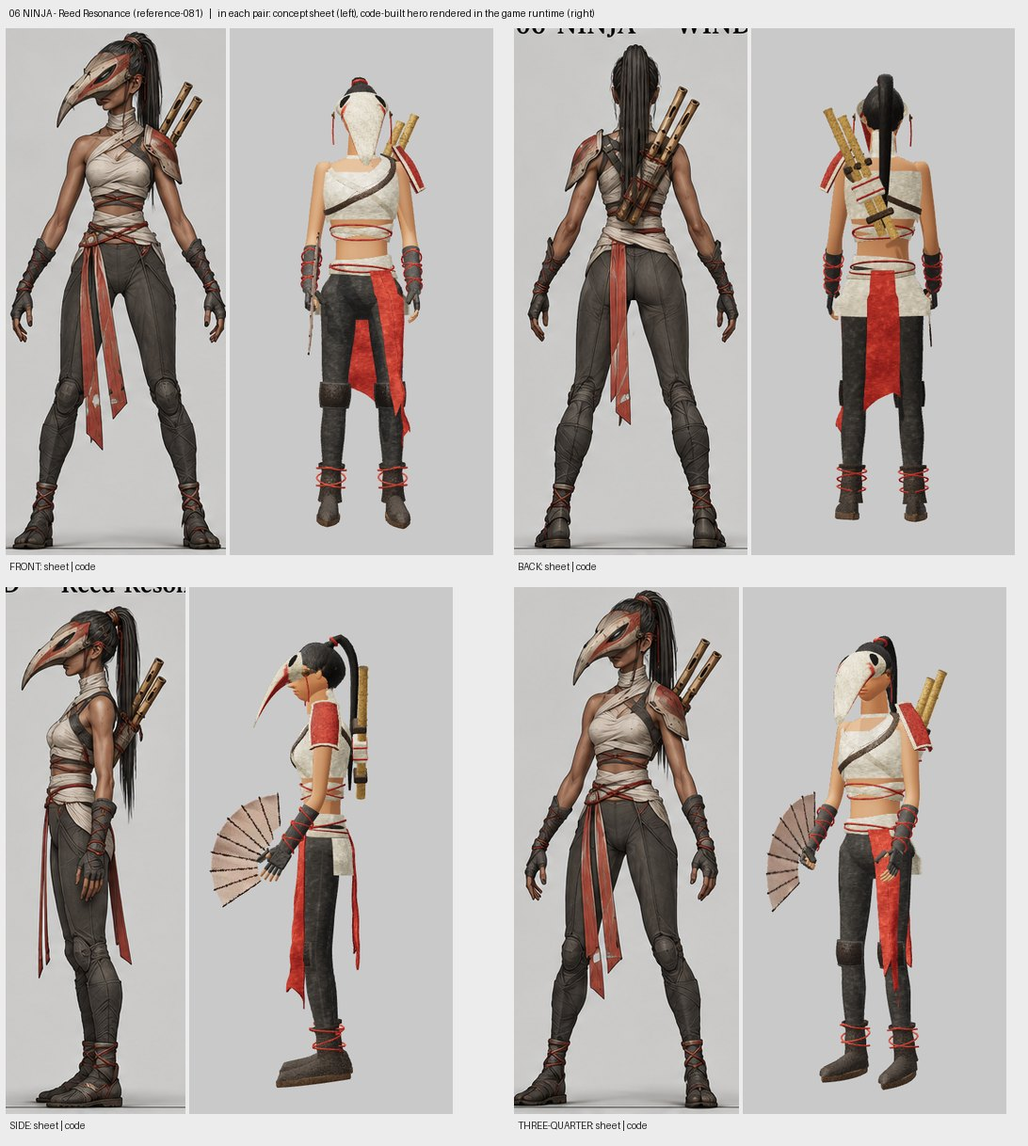
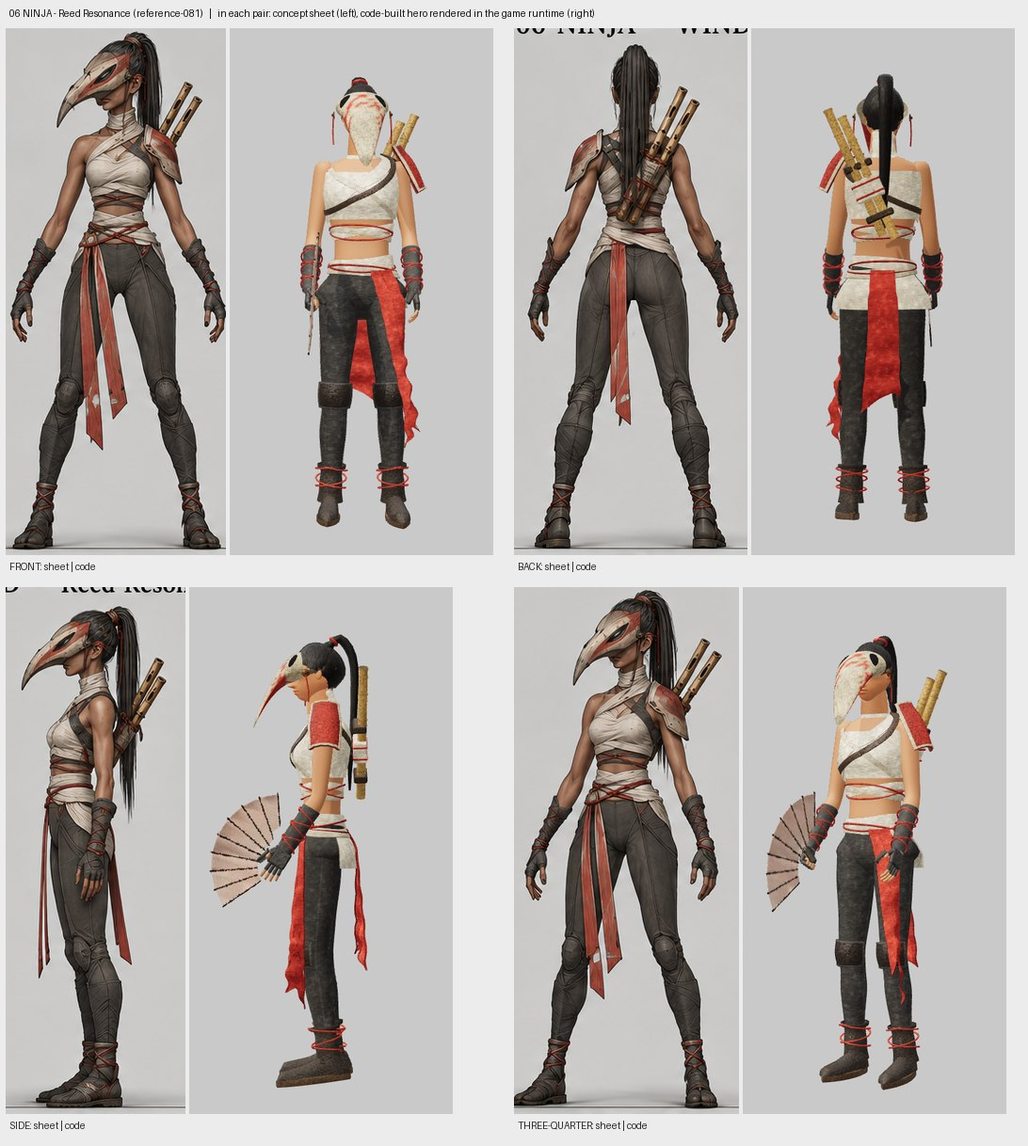
Oath 06-10 heroes: second fidelity pass against their sheets, updated side-by-sides and honest per-hero status
Fuller builds, painted beak mask, darker moss and oilskin, flared enamel tassets, calmer meteor iron,
slimmer astrolabe enamel, larger hem weights; tassets hang clear of baggy trousers.

Claude-Session: https://claude.ai/code/session_01SYnDkjpH2GusYDnF3Uckgg

diff --git a/game/src/three/character/sheets/recipes/oath-09-ninja.js b/game/src/three/character/sheets/recipes/oath-09-ninja.js
@@ -6,7 +6,7 @@ import { B } from '../builders-b.js';
 export default {
   id: 'oath-09-ninja', sheet: 'reference-075', title: 'Daybreak Ninja',
   palette: {
-    grey: '#6f6d6c', greyDark: '#545252', cloth: '#6f6d6c', ivory: '#d9d0bc', ivoryShade: '#b9b09c', gold: '#b08a3e', leather: '#4a4644', leatherDark: '#343231',
+    grey: '#565554', greyDark: '#454444', cloth: '#565554', ivory: '#d9d0bc', ivoryShade: '#b9b09c', gold: '#b08a3e', leather: '#4a4644', leatherDark: '#343231',
     iron: '#b08a3e', boot: '#5a5857', sole: '#3a3838', hair: '#1a1513', hairLight: '#2c231e',
   },
   build: { width: 1.0, depth: 1.0, hips: 1.2, waist: .93, bust: .024, arm: .9, leg: 1.0, neck: .92 },
@@ -18,7 +18,7 @@ export default {
     { use: 'b.neck', color: 'grey', mat: 'cloth', off: .003 },
     { use: 'b.legs', color: 'grey', to: 1.9, off: .006, seam: 'gold' },
     { use: 'boots', top: 1.74, color: 'boot', sole: 'sole', straps: 0 },
-    { use: 'b.guard', limb: 'leg', from: 1.62, to: 1.97, phi: 0, arc: 74, off: .02, thick: .008, flare: .014, pointTop: .16, ridge: .008, color: 'ivory', mat: 'enamel', trim: 'gold', trimMat: 'gold', trimWidth: .007 },
+    { use: 'b.guard', limb: 'leg', from: 1.7, to: 1.97, phi: 0, arc: 62, off: .02, thick: .008, flare: .012, pointTop: .14, ridge: .008, color: 'ivory', mat: 'enamel', trim: 'gold', trimMat: 'gold', trimWidth: .007 },
     // Sleeveless grey top, high ivory collar, the ivory sash from the left shoulder, wound waist.
     { use: 'b.torso', from: ['belt', -.03], to: 'base', color: 'grey', off: .006 },
     { use: 'b.collar', color: 'ivory', lining: 'ivoryShade', height: .05, gap: 44, flare: .008, off: .008 },
@@ -29,12 +29,12 @@ export default {
     // Enamel tassets edged in gold, grey loincloth points between them.
     { use: 'b.hang', at: 0, top: ['belt', .0], bottom: .8, width: [.04, .02], point: .08, color: 'greyDark', off: .008 },
     { use: 'b.hang', at: 180, top: ['belt', .0], bottom: .84, width: [.05, .03], point: .05, color: 'ivoryShade', off: .008 },
-    { use: 'b.hang', at: 46, top: ['belt', .01], bottom: .885, width: [.07, .06], point: .085, skew: -.55, color: 'ivory', mat: 'enamel', border: 'gold', borderWidth: .007, thick: .007, off: .014, flare: 1.12 },
-    { use: 'b.hang', at: -46, top: ['belt', .01], bottom: .885, width: [.07, .06], point: .085, skew: .55, color: 'ivory', mat: 'enamel', border: 'gold', borderWidth: .007, thick: .007, off: .014, flare: 1.12 },
-    { use: 'b.hang', at: 134, top: ['belt', .01], bottom: .885, width: [.065, .055], point: .085, skew: .55, color: 'ivory', mat: 'enamel', border: 'gold', borderWidth: .007, thick: .007, off: .014, flare: 1.12 },
-    { use: 'b.hang', at: -134, top: ['belt', .01], bottom: .885, width: [.065, .055], point: .085, skew: -.55, color: 'ivory', mat: 'enamel', border: 'gold', borderWidth: .007, thick: .007, off: .014, flare: 1.12 },
+    { use: 'b.hang', at: 46, top: ['belt', .01], bottom: .87, width: [.08, .1], point: .085, skew: -.55, color: 'ivory', mat: 'enamel', border: 'gold', borderWidth: .007, thick: .007, off: .014, flare: 1.3, lean: .03 },
+    { use: 'b.hang', at: -46, top: ['belt', .01], bottom: .87, width: [.08, .1], point: .085, skew: .55, color: 'ivory', mat: 'enamel', border: 'gold', borderWidth: .007, thick: .007, off: .014, flare: 1.3, lean: .03 },
+    { use: 'b.hang', at: 134, top: ['belt', .01], bottom: .87, width: [.075, .095], point: .085, skew: .55, color: 'ivory', mat: 'enamel', border: 'gold', borderWidth: .007, thick: .007, off: .014, flare: 1.3, lean: .03 },
+    { use: 'b.hang', at: -134, top: ['belt', .01], bottom: .87, width: [.075, .095], point: .085, skew: -.55, color: 'ivory', mat: 'enamel', border: 'gold', borderWidth: .007, thick: .007, off: .014, flare: 1.3, lean: .03 },
     // Folded enamel wing on the left shoulder with its gold hinge.
-    { use: 'b.wing', side: 'L', span: .15, depth: .1, tipDepth: .004, rise: .07, wedge: .085, inset: .7, lift: .012, color: 'ivory', mat: 'enamel', trim: 'gold', trimMat: 'gold', trimWidth: .008, thick: .009 },
+    { use: 'b.wing', side: 'L', span: .17, depth: .085, tipDepth: .002, rise: .09, wedge: .1, inset: .78, lift: .012, color: 'ivory', mat: 'enamel', trim: 'gold', trimMat: 'gold', trimWidth: .008, thick: .009 },
     { use: 'b.studs', on: 'arm', side: 'L', at: [[-.12, 150]], r: .018, off: .016, color: 'gold', mat: 'gold' },
     // Arms: gold armlets, grey sleeves from the elbow, enamel vambraces, gold wrist rings.
     { use: 'band', limb: 'arm', at: .78, width: .022, off: .002, thick: .004, color: 'gold', mat: 'iron', trim: 'ivory' },
@@ -43,7 +43,7 @@ export default {
     { use: 'band', limb: 'arm', at: 1.93, width: .016, off: .006, thick: .004, color: 'gold', mat: 'iron' },
     { use: 'hair', style: 'bun', streak: 'hairLight', locks: 120, length: .3, bun: { at: [0, .5, -.1], radius: .19 } },
     { use: 'b.headBand', y: .33, from: 0, to: 360, width: .03, off: .03, thick: .008, color: 'gold', mat: 'gold' },
-    { use: 'b.visor', top: .27, eye: -.07, half: 56 },
+    { use: 'b.visor', top: .2, eye: -.06, half: 50 },
     { use: 'hands', glove: 'grey', fingerless: true },
   ],
 };

diff --git a/game/src/three/character/sheets/recipes/oath-07-ninja.js b/game/src/three/character/sheets/recipes/oath-07-ninja.js
@@ -6,10 +6,10 @@ import { B } from '../builders-b.js';
 export default {
   id: 'oath-07-ninja', sheet: 'reference-079', title: 'Graft Ninja',
   palette: {
-    under: '#2c2621', cloth: '#352c24', trouser: '#3a3027', bark: '#6b4a30', barkDark: '#43301f', barkLight: '#8a6844', green: '#5c6a30', greenDark: '#44502a',
-    moss: '#3c4a1e', mossLight: '#6c7830', straw: '#b08c4a', leather: '#3e2f24', leatherDark: '#2a211b', iron: '#4a4541', ember: '#c8700e', glove: '#2a231e', boot: '#3f3022', sole: '#231c16', hair: '#1c1512',
+    under: '#2c2621', cloth: '#352c24', trouser: '#3a3027', bark: '#6b4a30', barkDark: '#43301f', barkLight: '#8a6844', green: '#4a5628', greenDark: '#384222',
+    moss: '#2c3716', mossLight: '#4f5a24', straw: '#b08c4a', leather: '#3e2f24', leatherDark: '#2a211b', iron: '#4a4541', ember: '#a04e06', glove: '#2a231e', boot: '#3f3022', sole: '#231c16', hair: '#1c1512',
   },
-  build: { width: 1.14, depth: 1.12, hips: 1.02, waist: 1.04, arm: 1.3, leg: 1.14, neck: 1.15, shoulder: 1.1 },
+  build: { width: 1.2, depth: 1.18, hips: 1.14, waist: 1.14, arm: 1.42, leg: 1.28, neck: 1.15, shoulder: 1.1 },
   keep: ['weapon'],
   builders: B,
   groom: { hair: false, gear: false },
@@ -34,12 +34,12 @@ export default {
     // Waist: wound green and bark-brown sashes, straw tassets bordered in green, bark centre panels.
     { use: 'b.sash', bands: [
       { y: ['belt', .03], h: .05, tilt: .018, phase: 0, off: .012, color: 'green' }, { y: ['belt', -.01], h: .046, tilt: -.02, phase: 30, off: .015, color: 'barkDark', mat: 'leather' }, { y: ['belt', .012], h: .03, tilt: .03, phase: 100, off: .019, color: 'greenDark' } ] },
-    { use: 'b.hang', at: 180, top: ['belt', 0], bottom: .64, width: [.07, .075], color: 'cloth', off: .01 },
-    { use: 'b.hang', at: 50, top: ['belt', 0], bottom: .7, width: [.075, .09], color: 'straw', mat: 'straw', border: 'green', borderWidth: .016, off: .014, weave: 6, point: .02, skew: -.6 },
-    { use: 'b.hang', at: -50, top: ['belt', 0], bottom: .7, width: [.075, .09], color: 'straw', mat: 'straw', border: 'green', borderWidth: .016, off: .014, weave: 6, point: .02, skew: .6 },
-    { use: 'b.hang', at: 130, top: ['belt', 0], bottom: .7, width: [.07, .085], color: 'straw', mat: 'straw', border: 'green', borderWidth: .016, off: .014, weave: 6 },
-    { use: 'b.hang', at: -130, top: ['belt', 0], bottom: .7, width: [.07, .085], color: 'straw', mat: 'straw', border: 'green', borderWidth: .016, off: .014, weave: 6 },
-    { use: 'b.hang', at: 0, top: ['belt', .01], bottom: .72, width: [.05, .038], point: .05, color: 'barkDark', mat: 'bark', border: 'bark', off: .02, thick: .008 },
+    { use: 'b.hang', at: 180, top: ['belt', 0], bottom: .64, width: [.07, .075], color: 'cloth', off: .01, lean: .03 },
+    { use: 'b.hang', at: 50, top: ['belt', 0], bottom: .7, width: [.075, .09], color: 'straw', mat: 'straw', border: 'green', borderWidth: .016, off: .014, lean: .04, weave: 6, point: .02, skew: -.6 },
+    { use: 'b.hang', at: -50, top: ['belt', 0], bottom: .7, width: [.075, .09], color: 'straw', mat: 'straw', border: 'green', borderWidth: .016, off: .014, lean: .04, weave: 6, point: .02, skew: .6 },
+    { use: 'b.hang', at: 130, top: ['belt', 0], bottom: .7, width: [.07, .085], color: 'straw', mat: 'straw', border: 'green', borderWidth: .016, off: .014, lean: .04, weave: 6 },
+    { use: 'b.hang', at: -130, top: ['belt', 0], bottom: .7, width: [.07, .085], color: 'straw', mat: 'straw', border: 'green', borderWidth: .016, off: .014, lean: .04, weave: 6 },
+    { use: 'b.hang', at: 0, top: ['belt', .01], bottom: .72, width: [.05, .038], point: .05, color: 'barkDark', mat: 'bark', border: 'bark', off: .02, lean: .03, thick: .008 },
     // Right shoulder: layered bark shards. Left shoulder and chest: a mantle of moss.
     { use: 'b.guard', limb: 'arm', side: 'R', from: -.42, to: -.02, layers: 3, step: .17, phi: 90, arc: 78, off: .014, thick: .011, point: .12, flareEnd: .012, color: 'bark', mat: 'bark', grooves: 6, trim: 'barkLight', trimWidth: .006, skin: [['shoulder.L', .5], ['upperarm.L', .5]] },
     { use: 'b.studs', on: 'arm', side: 'R', at: [[.02, 60]], r: .016, off: .034, color: 'ember', rim: 'barkDark', rimMat: 'bark', oval: 1.4 },

diff --git a/game/src/three/character/sheets/recipes/oath-10-ninja.js b/game/src/three/character/sheets/recipes/oath-10-ninja.js
@@ -6,16 +6,16 @@ import { B } from '../builders-b.js';
 export default {
   id: 'oath-10-ninja', sheet: 'reference-073', title: 'Tidal Ninja',
   palette: {
-    cloth: '#232842', indigo: '#262b48', indigoDark: '#1a1e33', black: '#1c1b1e', meteor: '#33312f', meteorDark: '#252423', silver: '#8e8a84', bronze: '#6a5238', brass: '#6a5238', violet: '#3a1e96', slit: '#d8d0ff',
+    cloth: '#232842', indigo: '#262b48', indigoDark: '#1a1e33', black: '#1c1b1e', meteor: '#2e2d2c', meteorDark: '#252423', silver: '#8e8a84', bronze: '#6a5238', brass: '#6a5238', violet: '#3a1e96', slit: '#d8d0ff',
     leather: '#3a2c22', leatherDark: '#261d18', iron: '#4a4744', glove: '#1b1a1c', boot: '#232122', sole: '#141314', bootPlate: '#33312f',
   },
-  build: { width: 1.0, depth: 1.06, hips: .92, waist: 1.0, arm: 1.02, leg: .98, neck: 1.0, belly: .01 },
+  build: { width: 1.06, depth: 1.14, hips: 1.04, waist: 1.12, arm: 1.2, leg: 1.2, neck: 1.0, belly: .012 },
   keep: ['weapon'],
   builders: B,
   groom: { hair: false, gear: false },
   parts: [
     { use: 'b.neck', color: 'black', mat: 'cloth', off: .004 },
-    { use: 'trousers', color: 'black', gather: 1.02, bag: .03, pleats: 7, pockets: [] },
+    { use: 'b.legs', color: 'black', to: 1.3, off: .012, folds: .004 },
     // Leg harness: knee cops, greaves, heavy strapped boots.
     { use: 'b.guard', limb: 'leg', from: 1.2, to: 1.82, arc: 180, off: .016, thick: .012, color: 'meteor', mat: 'meteor', trim: 'bronze', trimMat: 'brass', trimWidth: .01 },
     { use: 'b.guard', limb: 'leg', from: .8, to: 1.2, phi: 0, arc: 88, off: .03, thick: .014, bulge: .03, pointTop: .12, point: .06, ridge: .012, color: 'meteor', mat: 'meteor', trim: 'bronze', trimMat: 'brass', trimWidth: .012, rivets: 2, rivet: 'bronze' },
@@ -24,7 +24,7 @@ export default {
     { use: 'b.torso', from: ['belt', -.04], to: 'base', color: 'indigo', off: .012, slack: .003 },
     { use: 'b.sleeve', from: -.14, to: 1.2, off: .014, color: 'black', folds: .004, ribs: 0 },
     { use: 'b.coat', color: 'indigo', top: 'belt', hem: .6, flare: 1.08, off: .02, open: 50, folds: 7, lining: 'indigoDark' },
-    { use: 'b.hang', at: 0, top: ['belt', 0], bottom: .5, width: [.058, .05], point: .05, color: 'indigo', border: 'indigoDark', borderWidth: .008, off: .016, thick: .006, ornaments: [
+    { use: 'b.hang', at: 0, top: ['belt', 0], bottom: .4, width: [.05, .044], point: .05, lean: .02, color: 'indigo', border: 'indigoDark', borderWidth: .008, off: .016, thick: .006, ornaments: [
       { color: 'silver', ring: .045, width: .005, at: [0, .5] }, { color: 'silver', bar: [0, .64, 0, .97], width: .005 }, { color: 'silver', bar: [-.7, .8, 0, .92], width: .004 }, { color: 'silver', bar: [.7, .8, 0, .92], width: .004 } ] },
     { use: 'b.hang', at: 180, top: ['belt', 0], bottom: .44, width: [.075, .062], point: .06, color: 'indigo', border: 'indigoDark', borderWidth: .008, off: .016, thick: .006, ornaments: [
       { color: 'silver', ring: .05, width: .005, at: [0, .64] }, { color: 'silver', bar: [0, .08, 0, .5], width: .005 }, { color: 'silver', bar: [-.45, .08, -.45, .9], width: .003 }, { color: 'silver', bar: [.45, .08, .45, .9], width: .003 } ] },
@@ -42,8 +42,6 @@ export default {
     { use: 'belt', color: 'leather', height: .075, thick: .012, off: .03, buckle: 'iron', buckleSize: [.045, .036], keepers: [26, -26, 150, -150] },
     { use: 'b.pouch', y: ['belt', .0], th: 150, size: [.04, .042, .02], off: .044 },
     { use: 'b.pouch', y: ['belt', .0], th: -150, size: [.04, .042, .02], off: .044 },
-    { use: 'b.pouch', y: ['belt', .0], th: 112, size: [.034, .04, .018], off: .044 },
-    { use: 'b.pouch', y: ['belt', .0], th: -112, size: [.034, .04, .018], off: .044 },
     // Silver crescent across the chest, the iron horn on the right shoulder, layered plates on the left.
     { use: 'b.strip', color: 'silver', mat: 'silver', width: .1, thick: .012, taper: 'crescent', n: 50, border: 'bronze', path: [
       { th: -66, y: ['shoulder', -.02], off: .034 }, { th: -34, y: ['chest', .03], off: .044 }, { th: 6, y: ['chest', -.03], off: .05 }, { th: 44, y: ['ribs', .02], off: .046 }, { th: 76, y: ['ribs', .05], off: .04 } ] },

diff --git a/game/src/three/character/sheets/builders-b.js b/game/src/three/character/sheets/builders-b.js
@@ -15,8 +15,8 @@ const PI = Math.PI, DEG = PI / 180;
 /** Surface classes beyond the kiln set, as (roughness, metalness, kind) triples the costume shader already knows. */
 const SURFACE = {
   ...MAT,
-  wood: [.72, 0, 2], bark: [.9, 0, 2], bamboo: [.5, 0, 2], brass: [.45, .5, 3], gold: [.4, .55, 3], silver: [.42, .45, 3],
-  meteor: [.5, .35, 3], enamel: [.3, 0, 4], bone: [.55, 0, 4], moss: [1, 0, 0], straw: [.9, 0, 0], glass: [.2, 0, 7], glow: [.5, 0, 7], oilskin: [.6, 0, 0],
+  wood: [.72, 0, 2], bark: [.9, 0, 2], bamboo: [.5, 0, 2], brass: [.45, .5, 3], gold: [.4, .55, 3], silver: [.42, .25, 3],
+  meteor: [.55, .05, 3], enamel: [.3, 0, 4], bone: [.55, 0, 4], moss: [1, 0, 0], straw: [.9, 0, 0], glass: [.2, 0, 7], glow: [.5, 0, 7], oilskin: [.6, 0, 0],
 };
 const M = (name) => { const m = SURFACE[name]; if (!m) throw new Error(`unknown surface "${name}"`); return m; };
 const scaleOf = (c) => c.form.J.hips.y / .998;
@@ -439,7 +439,7 @@ function beakMask(c, { color = 'bone', stripe = 'red', length = .92, drop = 1.02
   c.bag.grid(26 * c.q, 22 * c.q, (u, v) => {
     const a = u * TAU, vv = v * .995, sn = Math.sin(a);
     // Paint: a red band across the cheek, red along the underside of the beak, a darkened tip.
-    const band = Math.abs(vv - (.2 + .1 * Math.abs(Math.cos(a)))) < .035 && sn < .75, under = sn < .08 && vv > .3 && vv < .86, mark = Math.abs(vv - .52) < .02 && sn > .1;
+    const band = Math.abs(vv - (.16 + .3 * Math.abs(Math.cos(a)) ** 1.5)) < .04 || Math.abs(vv - (.3 + .3 * Math.abs(Math.cos(a)) ** 1.5)) < .018, under = sn < .08 && vv > .3 && vv < .86, mark = Math.abs(vv - .52) < .02 && sn > .1;
     return { p: place(shell(vv, a)), skin: HEAD, c: vv > .93 ? tone(col, .45) : band || under || mark ? red : tone(col, .86 + .14 * Math.sin(a * 7 + vv * 31)) };
   }, { closeU: true, color: col, mat: M('wood'), inside: place(spine(.3)) });
   // Eye sockets: dark almonds set into the flanks.
@@ -768,7 +768,7 @@ function astrolabe(c, { metal = 'silver', enamel = 'violet', radius = .15, arm =
   const { J, trunk } = c.form, s = scaleOf(c), k = c.form.k, R = radius * k, sk = [['spine2', 1]], y = trunk.Y.base + .028 * s, zc = J.neck.z + .012, tl = -.16;
   const ring_ = (p) => V(p.x, y + p.y * tall * Math.cos(tl) - p.z * Math.sin(tl), zc + p.z * Math.cos(tl) + p.y * tall * Math.sin(tl)), place = (p) => V(p.x, y + p.y * Math.cos(tl) - p.z * Math.sin(tl), zc + p.z * Math.cos(tl) + p.y * Math.sin(tl)), fe = c.pal(metal), u = s;
   lathe(c, ring_, [[R - .034 * u, -.004 * u], [R - .03 * u, .02 * u], [R - .006 * u, .03 * u], [R + .014 * u, .022 * u], [R + .02 * u, .004 * u], [R + .012 * u, -.014 * u], [R - .02 * u, -.016 * u], [R - .034 * u, -.004 * u]], fe, M('silver'), sk, { n: 30 });
-  lathe(c, ring_, [[R + .019 * u, -.01 * u], [R + .0225 * u, .004 * u], [R + .016 * u, .021 * u]], c.pal(enamel), M('enamel'), sk, { n: 30 });
+  lathe(c, ring_, [[R + .0215 * u, -.002 * u], [R + .0225 * u, .004 * u], [R + .0205 * u, .011 * u]], c.pal(enamel), M('enamel'), sk, { n: 30 });
   lathe(c, place, [[R * .66, .012 * u], [R * .66 + .004 * u, .04 * u], [R * .66 + .016 * u, .044 * u], [R * .66 + .02 * u, .016 * u], [R * .66, .012 * u]], fe, M('silver'), sk, { n: 24 });
   for (let i = 0; i < 12; i++) { const a = i / 12 * TAU; c.bag.solid(scaled(dome(.005, .004, 6), u), (p) => place(V(Math.cos(a) * (R - .008 * u) + p.x, .03 * u * tall + p.z, Math.sin(a) * (R - .008 * u) + p.y)), sk, tone(fe, 1.2), M('silver')); }
   if (arm) {

diff --git a/game/src/three/character/sheets/recipes/oath-08-ninja.js b/game/src/three/character/sheets/recipes/oath-08-ninja.js
@@ -6,7 +6,7 @@ import { B } from '../builders-b.js';
 export default {
   id: 'oath-08-ninja', sheet: 'reference-077', title: 'Bitterglass Ninja',
   palette: {
-    under: '#1d1b1c', cloth: '#242123', oilskin: '#262225', purple: '#3a2a3c', leather: '#3c2c24', leatherDark: '#261d19', brass: '#8a6a34', brassDark: '#5e4826',
+    under: '#1d1b1c', cloth: '#242123', oilskin: '#1c1a1c', purple: '#2c2230', leather: '#3c2c24', leatherDark: '#261d19', brass: '#8a6a34', brassDark: '#5e4826',
     glass: '#4f7a06', iron: '#4a4541', glove: '#19171a', boot: '#221c1a', bootCap: '#2c2420', sole: '#141110', hair: '#1c1714',
   },
   build: { width: 1.08, depth: 1.06, arm: 1.12, leg: 1.06, shoulder: 1.08 },
@@ -16,7 +16,7 @@ export default {
   parts: [
     { use: 'b.neck', color: 'under', mat: 'cloth', off: .004 },
     { use: 'b.legs', color: 'under', to: 1.7, off: .006 },
-    { use: 'b.legs', color: 'oilskin', mat: 'oilskin', from: -.155, to: .84, off: .014, shape: [[-.2, .012], [.2, .026], [.84, .046]], hem: true, folds: .004, seam: 'leatherDark' },
+    { use: 'b.legs', color: 'oilskin', mat: 'oilskin', from: -.155, to: .84, off: .014, shape: [[-.2, .01], [.2, .018], [.84, .03]], hem: true, folds: .004, seam: 'leatherDark' },
     { use: 'b.guard', limb: 'leg', from: .9, to: 1.15, phi: 0, arc: 76, off: .009, thick: .009, bulge: .016, color: 'leather', mat: 'leather', trim: 'brass', trimMat: 'brass', trimWidth: .007 },
     { use: 'band', limb: 'leg', at: 1.17, width: .022, off: .006, thick: .005, color: 'leatherDark' },
     { use: 'boots', top: 1.6, color: 'boot', sole: 'sole', toeCap: 'bootCap', plateMat: 'leather', straps: 3, strapColor: 'leather', buckle: 'brass', bulk: 1.14, cuff: 'brass', soleHeight: .042 },
@@ -46,7 +46,7 @@ export default {
     { use: 'b.pouch', limb: 'leg', at: .4, phi: 80, size: [.05, .07, .02], off: .058 },
     { use: 'b.backpack' },
     { use: 'b.hairCap', color: 'hair', front: .3, side: .12, nape: -.3, lift: .008 },
-    { use: 'b.skullCap', color: 'leather', front: .2, side: .06, nape: -.08, off: .03, seams: 4, band: 'leatherDark' },
+    { use: 'b.skullCap', color: 'leatherDark', seam: 'leather', front: .2, side: .06, nape: -.08, off: .03, seams: 4, band: 'leatherDark' },
     { use: 'b.respirator', canister: .14 },
     { use: 'hands', glove: 'glove' },
   ],

diff --git a/game/src/three/character/sheets/recipes/oath-06-ninja.js b/game/src/three/character/sheets/recipes/oath-06-ninja.js
@@ -6,9 +6,9 @@ export default {
   id: 'oath-06-ninja', sheet: 'reference-081', title: 'Reed Ninja',
   palette: {
     linen: '#cdc2ab', linenShade: '#b3a78f', red: '#a23426', cord: '#8e2a20', charcoal: '#3b3937', wrapDark: '#454240',
-    bone: '#d2c3a2', bamboo: '#b98f4c', leather: '#4a392c', leatherDark: '#2f2620', brass: '#7b5a34', boot: '#3a322c', sole: '#5a4532', iron: '#4a4541', hair: '#191513', cloth: '#3b3937',
+    bone: '#b8a888', bamboo: '#b98f4c', leather: '#4a392c', leatherDark: '#2f2620', brass: '#7b5a34', boot: '#3a322c', sole: '#5a4532', iron: '#4a4541', hair: '#191513', cloth: '#3b3937',
   },
-  build: { width: 1.0, depth: 1.0, hips: 1.2, waist: .93, bust: .022, arm: .86, leg: .98, neck: .92, shoulder: 1.0 },
+  build: { width: 1.0, depth: 1.0, hips: 1.34, waist: .98, bust: .024, arm: .92, leg: 1.1, neck: .92, shoulder: 1.0 },
   keep: ['weapon'],
   builders: B,
   groom: { hair: false, gear: false },
@@ -32,7 +32,7 @@ export default {
       { y: ['belt', .016], h: .008, tilt: .022, phase: 100, off: .019, color: 'cord', round: 1 }, { y: ['belt', .0], h: .008, tilt: -.024, phase: 60, off: .019, color: 'cord', round: 1 } ] },
     { use: 'b.legs', color: 'charcoal', to: 1.9, seam: 'wrapDark', off: .006 },
     // Hip drape open at the front, and the red sash tails.
-    { use: 'b.coat', color: 'linen', top: ['belt', -.01], hem: .9, flare: 1.03, off: .012, open: 210, folds: 5 },
+    { use: 'b.coat', color: 'linen', top: ['belt', -.01], hem: .93, flare: 1.03, off: .012, open: 230, folds: 5 },
     { use: 'b.hang', at: 26, top: ['belt', .0], bottom: .5, width: [.03, .036], point: -.05, skew: .5, color: 'red', off: .008, sway: .006 },
     { use: 'b.hang', at: 40, top: ['belt', .0], bottom: .36, width: [.028, .034], point: -.05, skew: -.5, color: 'red', off: .012, sway: .008 },
     { use: 'b.hang', at: 180, top: ['belt', .0], bottom: .52, width: [.03, .036], point: -.05, skew: .4, color: 'red', off: .006, sway: .006 },

diff --git a/game/src/three/character/sheets/recipes/oath-10-sorcerer.js b/game/src/three/character/sheets/recipes/oath-10-sorcerer.js
@@ -6,7 +6,7 @@ import { B } from '../builders-b.js';
 export default {
   id: 'oath-10-sorcerer', sheet: 'reference-072', title: 'Tidal Sorcerer',
   palette: {
-    cloth: '#1e2440', navy: '#1f2542', navyDark: '#151a30', cream: '#cfc5ae', silver: '#9a968c', silverDark: '#6e6a62', gold: '#a88a48', violet: '#4a2c8e',
+    cloth: '#1a1f38', navy: '#1a1f38', navyDark: '#12162a', cream: '#cfc5ae', silver: '#9a968c', silverDark: '#6e6a62', gold: '#a88a48', violet: '#4a2c8e',
     black: '#1c1b1e', leather: '#3a2c22', leatherDark: '#261d18', iron: '#9a968c', boot: '#262224', bootCap: '#6e6a62', sole: '#151314', hair: '#1d1917', hairGrey: '#4a4644', tie: '#9a968c',
   },
   build: { width: 1.3, depth: 1.36, belly: .04, bust: .03, hips: 1.2, waist: 1.22, arm: 1.22, leg: 1.16, neck: 1.1, shoulder: 1.06 },
@@ -35,7 +35,7 @@ export default {
     { use: 'b.orb', off: .046, r: .052 },
     { use: 'b.orb', at: 180, off: .046, r: .03, tag: false },
     { use: 'b.astrolabe', reach: .36, radius: .165 },
-    { use: 'b.hemOrbs', r: .05, drop: .03 },
+    { use: 'b.hemOrbs', r: .06, drop: .03 },
     { use: 'hair', style: 'bun', streak: 'hairGrey', locks: 120, length: .3, bun: { at: [0, .5, -.12], radius: .2, tie: 'tie' } },
     { use: 'hands' },
   ],

diff --git a/game/src/three/character/sheets/recipes/oath-07-sorcerer.js b/game/src/three/character/sheets/recipes/oath-07-sorcerer.js
@@ -7,7 +7,7 @@ export default {
   id: 'oath-07-sorcerer', sheet: 'reference-078', title: 'Graft Sorcerer',
   palette: {
     cloth: '#4e3a28', brown: '#553f2b', brownDark: '#35281d', cream: '#c9b996', burlap: '#a08458', moss: '#333c1e', mossLight: '#56612c', green: '#55652c',
-    straw: '#b39763', wicker: '#9c7c52', bark: '#6a4b31', barkDark: '#48331f', leaf: '#3c6422', leafLight: '#66883a', ember: '#c8700e', leather: '#4a3626', leatherDark: '#2f241b', iron: '#4a4541',
+    straw: '#b39763', wicker: '#9c7c52', bark: '#6a4b31', barkDark: '#48331f', leaf: '#3c6422', leafLight: '#66883a', ember: '#a04e06', leather: '#4a3626', leatherDark: '#2f241b', iron: '#4a4541',
     boot: '#46321f', sole: '#2a2018', hair: '#8a8783', hairGrey: '#a9a6a1', tie: '#6a4b31',
   },
   build: { width: 1.34, depth: 1.4, belly: .04, bust: .02, hips: 1.16, waist: 1.2, arm: 1.3, leg: 1.2, neck: 1.1, shoulder: 1.1 },

diff --git a/docs/upgrades/CHARACTERS_FROM_SHEETS.md b/docs/upgrades/CHARACTERS_FROM_SHEETS.md
@@ -78,11 +78,11 @@ reference-092..095 are sorcerer line-ups and 096..098 ninja line-ups across elem
 | 03 | LIGHTNING - Storm Relay | reference-085 | reference-087 | reference-111 | not started | not started |
 | 04 | WATER - Tidal Covenant | reference-084 | reference-086 | reference-110 | not started | not started |
 | 05 | EARTH & CRYSTAL - Fault Choir | reference-082 | reference-083 | reference-109 | not started | not started |
-| 06 | WIND & SOUND - Reed Resonance | reference-081 | reference-080 | reference-108 | not started | not started |
-| 07 | NATURE - Graft Sanctuary | reference-079 | reference-078 | reference-107 | not started | not started |
-| 08 | POISON - Bitterglass Guild | reference-077 | reference-076 | reference-106 | not started | not started |
-| 09 | LIGHT & HOLY - Oath of Daybreak | reference-075 | reference-074 | reference-105 | not started | not started |
-| 10 | COSMIC & GRAVITY - Tidal Observatory | reference-073 | reference-072 | reference-104 | not started | not started |
+| 06 | WIND & SOUND - Reed Resonance | reference-081 | reference-080 | reference-108 | partial (see below) | done (see below) |
+| 07 | NATURE - Graft Sanctuary | reference-079 | reference-078 | reference-107 | partial (see below) | done (see below) |
+| 08 | POISON - Bitterglass Guild | reference-077 | reference-076 | reference-106 | done (see below) | done (see below) |
+| 09 | LIGHT & HOLY - Oath of Daybreak | reference-075 | reference-074 | reference-105 | partial (see below) | done (see below) |
+| 10 | COSMIC & GRAVITY - Tidal Observatory | reference-073 | reference-072 | reference-104 | partial (see below) | done (see below) |
 | 11 | SHADOW & VOID - The Missing Court | reference-071 | reference-070 | reference-103 | not started | not started |
 | 12 | BLOOD - Sanguine Covenant | reference-069 | reference-067 | reference-102 | not started | not started |
 | 13 | ARCANE & ILLUSION - Folded Theatre | reference-068 | reference-066 | reference-100 | not started | not started |
@@ -133,6 +133,107 @@ Differs from the sheet:
 - The apron is wider and brighter than the painted one, without its riveted strap ends.
 - Hair is a combed cap, locks and a bun; no loose curls at the temples. The face is the procedural head and
   does not resemble the portrait.
+
+### Oaths 06 to 10 (group b): builders in `builders-b.js`, used through each recipe's `builders` field
+
+All ten were rendered through `game/sheet.html` (BodyFactory, high tier, idle pose, four views) and compared
+with their sheets; evidence is `docs/qa/characters/oath-NN-<discipline>.jpg`. None is a duplicate of its
+painting: each is the same costume rebuilt from simpler shapes. Common to all ten: the face is the procedural
+head, not the portrait; the held weapon is the baked one (the sheets show empty hands); hands are the shared
+code hands; proportions are the rig's (shorter legs and neck than the paintings); surfaces use the five
+existing shader kinds, so wood and bamboo take the leather grain, brass, gold and silver take the iron
+pitting with its rust mottling, enamel takes the smooth skin kind, and glass is an unlit glowing colour with
+no transparency. Also seen: six of them (06, 07, 08 and 10 sorcerers, 09 and 10 ninjas) mid-run on the
+medium tier; costumes follow the stride, the trailing shin shows behind long coats, and on medium the violet
+bands of the Tidal Sorcerer's hem weights are lost. Not seen: any of them in the running game, the low tier,
+attack or cast clips.
+
+**oath-06-ninja (reference-081): partial.** Present: carved beak mask with painted red bands, eye sockets,
+cheek pivots with hanging cords and head strap; high ponytail with red tie; linen neck binding, breast band,
+wide wrap over the left shoulder and a narrow crossing wrap; bare midriff with crossed linen bands and red
+cords; wound waist sash; three red sash tails; small linen hip drape; red carved shoulder plate on the left
+with pale edge; pipe harness and two bamboo reed pipes with nodes, linen wrap and lashings on the back; dark
+forearm wraps with red cord; fitted dark trousers with seams, knee pads, shin wraps, ankle boots with red
+cord. Differs: the mask is a smooth lofted shell (no weathering, flatter painting, blunter from the front);
+the wraps are clean bands rather than torn layered cloth; no fingerless-glove detail beyond the shared hands;
+legs are slimmer and straighter; the hip drape is plainer; pipes have no finger holes.
+
+**oath-06-sorcerer (reference-080): done.** Present: tall narrow build; ribbed linen coat body with red side
+panels, knife-pleated skirt open at the front over a red under-robe, pleated hem; bell sleeves lined red with
+four brass bells each; pointed shoulders; standing collar lined red; wide dark belt with cross lacing; five
+reed pipes in a leather frame on the left hip; resonator yoke with two capped horns and a lashed spine board;
+slim trousers, red ankle bands, low dark shoes with pale soles; groom top-knot and goatee. Differs: horns are
+plain swept tubes without the carved relief and stand straighter; collar sits lower; the coat is paler in
+places because of the cloth wear shading; no chest toggles.
+
+**oath-07-ninja (reference-079): partial.** Present: seed-pod bark mask with midrib, grain, two glowing eye
+slits, rim scales and moss; cap of tight curls; dark high-necked under-layer, bare upper arms with a buckled
+band; ribbed bark breastplate, crossing bark strap and green sash; three layered bark shards on the right
+shoulder with a sap plug; moss mantle over the left shoulder and chest; bark forearm guards with branch stubs
+and sap plugs; wound green and brown waist sashes; four straw-weave tassets bordered in green, bark centre
+panel, dark back cloth; baggy trousers gathered below the knee, knee bands, bark greaves, boots with root
+stubs and moss. Differs: the chest is one ribbed plate, not many overlapping shards; moss is flat fronds, not
+feathery tufts; branch stubs are plain cones; boots lack the wrapped roots over the toes; he is less massive.
+
+**oath-07-sorcerer (reference-078): done.** Present: short stout stooped build; brown coat with wide sleeves
+over cream under-sleeves and collar; dark under-skirt, burlap skirt with straw hem band, coat skirt open at
+the front; moss aprons front and back; green breast wrap; root harness over both shoulders with sap plugs;
+rope sashes; straw fringes with sap beads on both hips; woven basket with hoops and stakes, moss top and
+three leafy saplings; laced ankle boots; grey bun. Differs: the fringe is flat knotted ribbons, not braided
+rope with chain links; the basket weave is a colour pattern on a smooth shell; no moss growing on the coat;
+the back strap hinge is a single sap boss.
+
+**oath-08-ninja (reference-077): done.** Present: leather skull cap with seams and band; respirator cup with
+brass frame, two rimmed canisters and straps; black high neck; oilskin jacket with purple breast, back and
+shoulder panels; brass-edged leather shoulder plates with rivets; braces over both shoulders, crossed chest
+straps with brass bosses; brass-edged leather vambraces with buckled straps, black gloves; ampoule belt with
+ten glowing ampoules in brass caps and leather clips; wide shorts over leggings; strapped thigh pouches;
+brass-edged knee pads; strapped boots; pack with flap, pocket, brass corners and three ampoules. Differs: the
+shorts read as one skirt from the back; pouches are smaller and fewer; less stitching, buckles and layering
+on the harness; brass trims are thin raised lines.
+
+**oath-08-sorcerer (reference-076): done.** Present: dark cap with gold seam over grey hair and a nape knot;
+high winged collar lined purple and edged gold; long fitted coat open from the waist, purple lining, gold
+edge and hem, gold seam piping front and back; shoulder straps crossing at the back with a brass boss; two
+belts; three long vials racked at the left hip; two glass globes half full of glowing liquid with brass
+necks, valves, girdles and cradle arms; standpipe with collars and spout behind the left shoulder; flared
+brass vambraces, black gloves; tall boots with brass toe caps and heels. Differs: the coat hangs straight
+without the pointed, layered tails and back vent; globes are opaque two-tone, not glass; no small buckles on
+the harness; the standpipe sits behind the left shoulder in all views (the sheet's views disagree).
+
+**oath-09-ninja (reference-075): partial.** Present: braided-up dark hair with gold band; folded ivory visor
+with gold edges over a grey veil, strap and gold clasp; sleeveless grey top with ivory collar; ivory sash
+from the left shoulder; wound ivory waist; folded ivory wing on the left shoulder with gold edge and hinge;
+gold armlets, grey sleeves from the elbow, ivory vambraces with gold edges, gold wrist rings; four ivory
+tassets edged in gold with grey and ivory centre points; grey leggings with gold seams; ivory shin cuffs.
+Differs: the wing is a rounded wedge, not the sharp faceted kite; the visor is boxier and hides the brow;
+tassets are narrower and longer than the flared skirt; no high heels; leggings lack the diamond seam lines.
+
+**oath-09-sorcerer (reference-074): done.** Present: grey robe with wide gold-cuffed sleeves and gold-edged
+collar; ivory scapular front and back piped in gold with pointed shoulders; four ivory coat panels at the
+sides and back with gold borders over the grey skirt; belt with gold fittings; lotus boss front and back;
+hanging tab; reliquary box on the right hip; baggy grey trousers, boots with gold soles; groom swept hair,
+tail and beard. Differs: the lotus is smaller with fewer petals; the reliquary is a plain framed box; the
+side panels overlap slightly instead of showing clean grey strips.
+
+**oath-10-ninja (reference-073): partial.** Present: closed dark helm with three glowing slits, brow band and
+ear discs; indigo scarf and tunic; silver crescent across the chest; iron horn on the right shoulder with
+bronze edge; layered plates on the left shoulder; back harness with a bronze boss; padded sleeves, elbow
+cops, heavy vambraces with violet inlay, gauntlet hands; heavy belt with buckle and two pouches; silver hip
+crescent with violet inlay; indigo front and back tabards with inlaid ring and bars; four iron tassets edged
+in silver; knee cops, greaves, strapped plated boots. Differs: he is narrower and less massive; the horn is
+flatter and smaller; armour plates are simple shells without the layered rims, rivets and straps; iron is
+mottled rather than brushed; the emblem is simplified; fewer belt pouches.
+
+**oath-10-sorcerer (reference-072): done.** Present: stout build; midnight robe with bell skirt, silver hem
+band, wide silver-banded sleeves with gold star studs, pointed shoulders; cream centre panel with inlaid
+orbit marks; six silver straps with violet inlay and bosses down the skirt; silver belt with violet line and
+the orb in rings with its tag; astrolabe collar with studs, inner ring, jointed arm and orb; eight banded
+weights on chains at the hem; baggy trousers, strapped boots; bun with a ring. Differs: the collar is
+slimmer and plainer; no embroidered constellations on the cloth; strap bosses are round, not hexagonal; the
+weights are smaller.
+
+Two profile skin tones were changed to follow the sheets: oath-06-ninja to tan, oath-07-ninja to brown.
 
 ### All other heroes: not started
 
